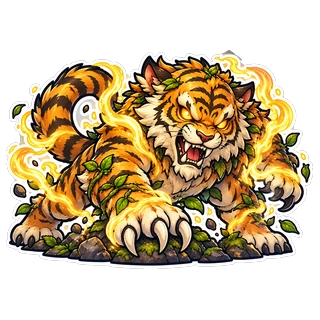
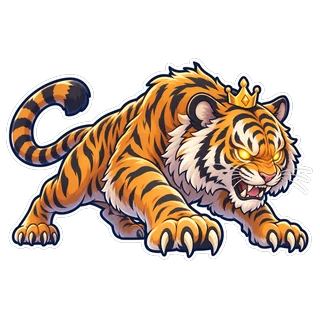
Fuller, faster-respawning new regions; art for 16 bosses and 7 species (#169)
* Fill the new regions with monsters and make them respawn quickly

The open-world and far regions are much bigger than the old island
zones and had 3-30x fewer monsters per tile, and respawn time grew
with level (up to ~90s for normal monsters and 5+ minutes for bosses).
Every open-world and far region is now topped up to about 55 monsters
per 1000 walkable tiles with creatures of its level (its own species
most often), on a separate random stream so nothing else moves.
Monsters respawn in 6-11s at any level, bosses in about a minute.
Only NPCs near the player animate, so twice the monsters costs no
more per frame.

Claude-Session: https://claude.ai/code/session_019kevwHHi9fDprq4oAiuq6N

* Art: 11 more bosses, 5 refreshed bosses and 7 monster species

New: Changi Phantom, Pulau Hantu Djinn, Singa of Temasek, Spirit of
Badang, Goblin Warchief, Jungle Spider Queen, Macaque Alpha, Bukit
Timah Drake, Bedok Bandit Lord, Mangrove Hydra, Hungry Ghost King.
Refreshed with the newer crowned versions: Reservoir Serpent, the
Merlion, Ancient Tembusu, Tualang Treant (now with its beehives) and
Night Safari Tiger. Species: scarecrow, storm drake, bronze warrior,
grey heron, water buffalo, mudskipper, water monitor.

Claude-Session: https://claude.ai/code/session_019kevwHHi9fDprq4oAiuq6N

---------

diff --git a/src/data/world.js b/src/data/world.js
@@ -747,6 +747,24 @@ export function buildWorld() {
     qilin_trail: [[380, 300], [430, 340], [500, 300], [520, 360]],
   })) for (const [x, y] of spots) placeNear(id, x, y);
 
+  // ================= Top up the thinner regions =================
+  // The open-world and far regions are far bigger than the old island zones, so
+  // they're filled up to a steady density with creatures of the right level. This
+  // runs on its own stream after everything else, so nothing earlier moves.
+  R = mulberry32(20261124);
+  const TARGET_PER_1000 = 55;
+  for (const z of zones.filter((zz) => zz.lo)) {
+    let walk = 0, have = 0;
+    for (let y = z.y0; y <= z.y1; y++) for (let x = z.x0; x <= z.x1; x++) if (LANDABLE.includes(get(x, y))) walk++;
+    for (const s of npcSpawns) if (s.x >= z.x0 && s.x <= z.x1 && s.y >= z.y0 && s.y <= z.y1 && NPCS[s.npcId]?.attackable && !NPCS[s.npcId].boss) have++;
+    const kinds = MONSTER_IDS.filter((id) => NPCS[id].level >= z.lo && NPCS[id].level <= z.hi && (z.far || !isFar(id)));
+    const native = kinds.filter((id) => NPCS[id].zone === z.name);
+    const pool = native.length ? [...native, ...native, ...kinds] : kinds;   // a region's own species turn up most
+    for (let need = Math.round(walk * TARGET_PER_1000 / 1000) - have, i = 0; need > 0 && pool.length; need--, i++) {
+      placeInZone(pool[Math.floor(R() * pool.length)], z, 4);
+    }
+  }
+
   // --- Border fence ---
   for (let x = 0; x < W; x++) { placeObj('fence', x, 0); placeObj('fence', x, H - 1); }
   for (let y = 0; y < H; y++) { placeObj('fence', 0, y); placeObj('fence', W - 1, y); }

diff --git a/src/data/npcs.js b/src/data/npcs.js
@@ -130,7 +130,7 @@ function runesFor(level) {
 
 function makeMob(id, name, sprite, color, level, zone, aggro, family) {
   return { name, level, attackable: true, sprite, color, zone, family, ...statsFor(level),
-    aggressive: aggro, aggroRange: aggro ? 4 : 0, respawn: Math.max(10, Math.round(10 + level / 3)), wander: 4,
+    aggressive: aggro, aggroRange: aggro ? 4 : 0, respawn: Math.min(18, Math.max(10, Math.round(10 + level / 40))), wander: 4,   // 6-11s, so high-level areas refill as fast as low ones
     examine: `A ${name.toLowerCase()} (level ${level}).`,
     alwaysDrop: [{ id: 'bones' }], dropTable: dropsFor(level) };
 }
@@ -309,7 +309,7 @@ function makeBoss(id, name, sprite, color, level, zone, scale, drops) {
     maxHit: Math.ceil(level / 7) + 3, attackSpeed: 5,
     // Bosses never ambush — you have to walk up and start the fight yourself.
     // Once engaged they still fight back and chase normally.
-    aggressive: false, aggroRange: 0, respawn: Math.round(60 + level), wander: 3,
+    aggressive: false, aggroRange: 0, respawn: Math.min(100, Math.round(60 + level / 8)), wander: 3,   // about 40-60s
     examine: `${name} — a fearsome boss (level ${level}).`,
     alwaysDrop: [{ id: 'bones' }, { id: 'coins', min: level * 8, max: level * 32 }],
     dropTable: drops };

diff --git a/src/render/sprites.js b/src/render/sprites.js
@@ -106,6 +106,7 @@ const SPECIES_ART = new Set([
   'sand_scorpion', 'sea_snake', 'sea_turtle', 'skeleton', 'smooth_otter', 'stone_golem',
   'swamp_slime', 'vampire_bat', 'wild_boar', 'wild_dog', 'will_o_wisp', 'wraith',
   'reticulated_python', 'komodo_dragon', 'river_otter',
+  'scarecrow', 'storm_drake', 'bronze_warrior', 'grey_heron', 'water_buffalo', 'mudskipper', 'water_monitor',
 ]);
 const _speciesImg = {};
 function speciesImage(family) {
@@ -126,6 +127,8 @@ const BOSS_ART = new Set([
   'orang_minyak', 'sand_scorpion_king', 'sentosa_kraken', 'shadow_sovereign', 'wilderness_warlord', 'kusu_tortoise', 'rift_tyrant', 'coney_behemoth', 'supertree_guardian', 'eternal_wyrm', 'kranji_buffalo_king',
   'merlion', 'the_garuda', 'ancient_tembusu', 'reservoir_serpent', 'boar_king', 'tualang_treant', 'night_safari_tiger',
   'tuas_crane_colossus', 'harimau_jadian', 'punggol_lantern_spirit', 'bunian_queen', 'drowned_admiral',
+  'changi_phantom', 'pulau_hantu_djinn', 'singa_of_temasek', 'spirit_of_badang', 'goblin_warchief', 'spider_queen',
+  'macaque_alpha', 'timah_drake', 'bedok_bandit_lord', 'mangrove_hydra', 'hungry_ghost_king',
 ]);
 const _bossImg = {};
 function bossImage(id) {

diff --git a/src/game/game.js b/src/game/game.js
@@ -466,7 +466,10 @@ export class Game {
     let adt = dt;
     if (this.hitStop > 0) { this.hitStop = Math.max(0, this.hitStop - dt); adt = dt * 0.12; }
     this.player.update(adt);
-    for (const n of this.npcs) n.update(adt);
+    // Only NPCs near the player animate and walk (the rest are frozen until you
+    // come close, like their AI), so a fuller world costs no more per frame.
+    { const px = this.player.x, py = this.player.y;
+      for (const n of this.npcs) if (Math.abs(n.x - px) <= 48 && Math.abs(n.y - py) <= 48) n.update(adt); }
     this.playMs += dt;
     this._tickPotions(dt);
 
